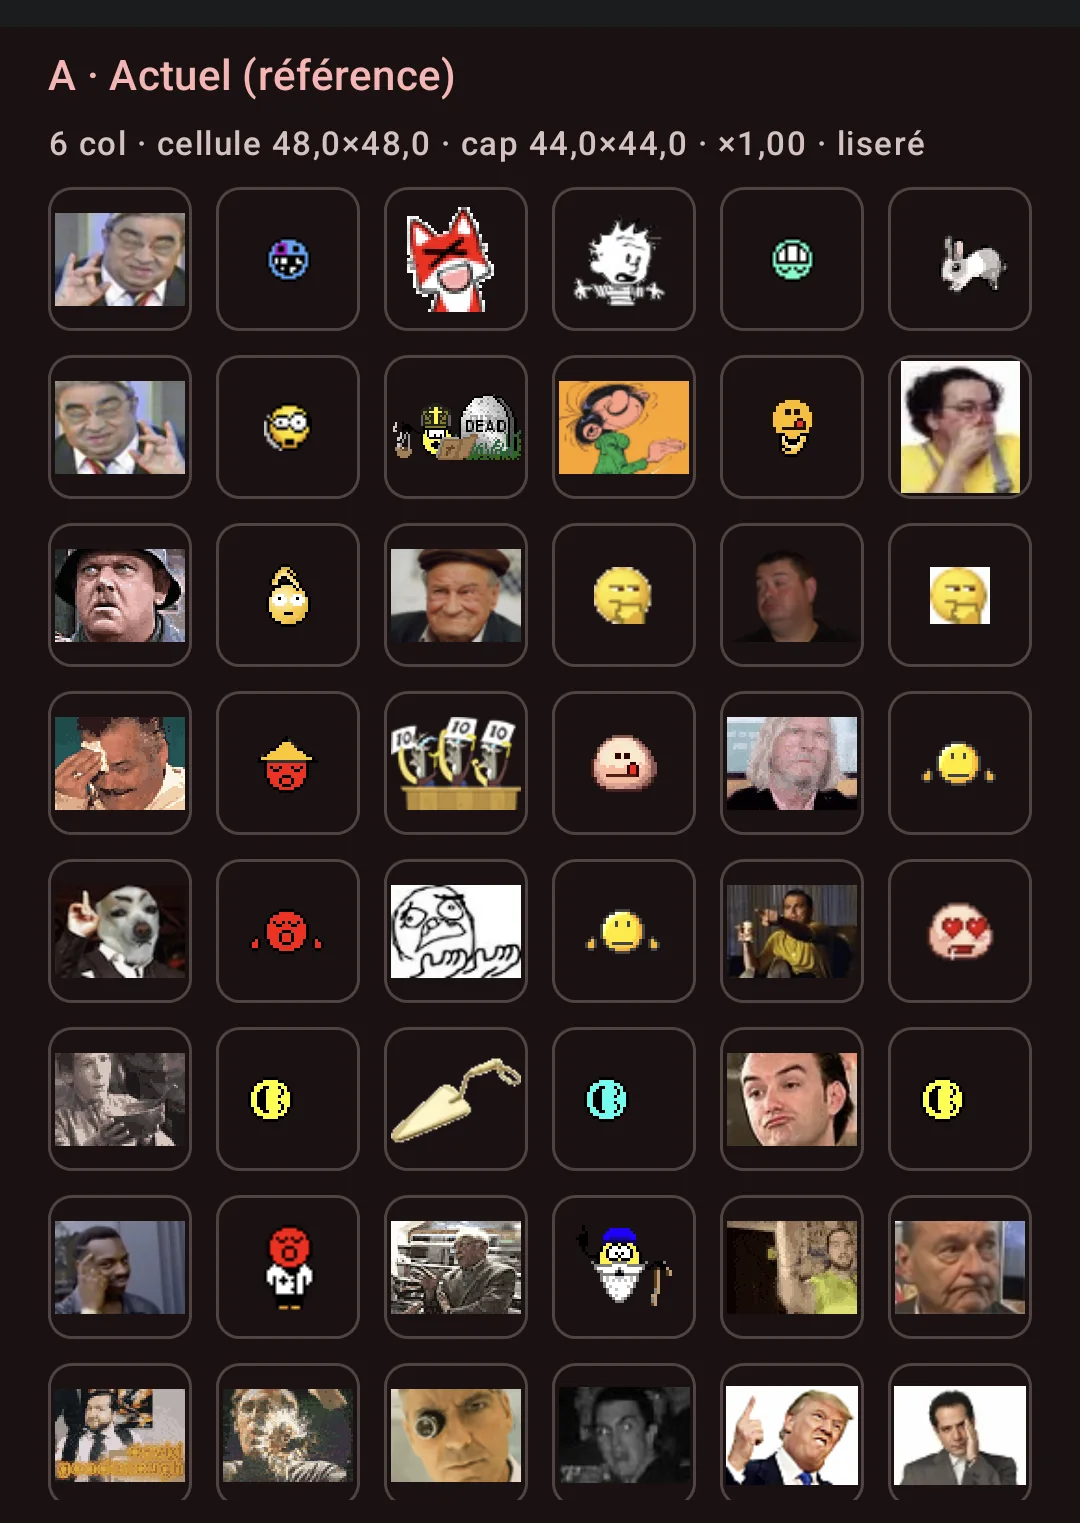
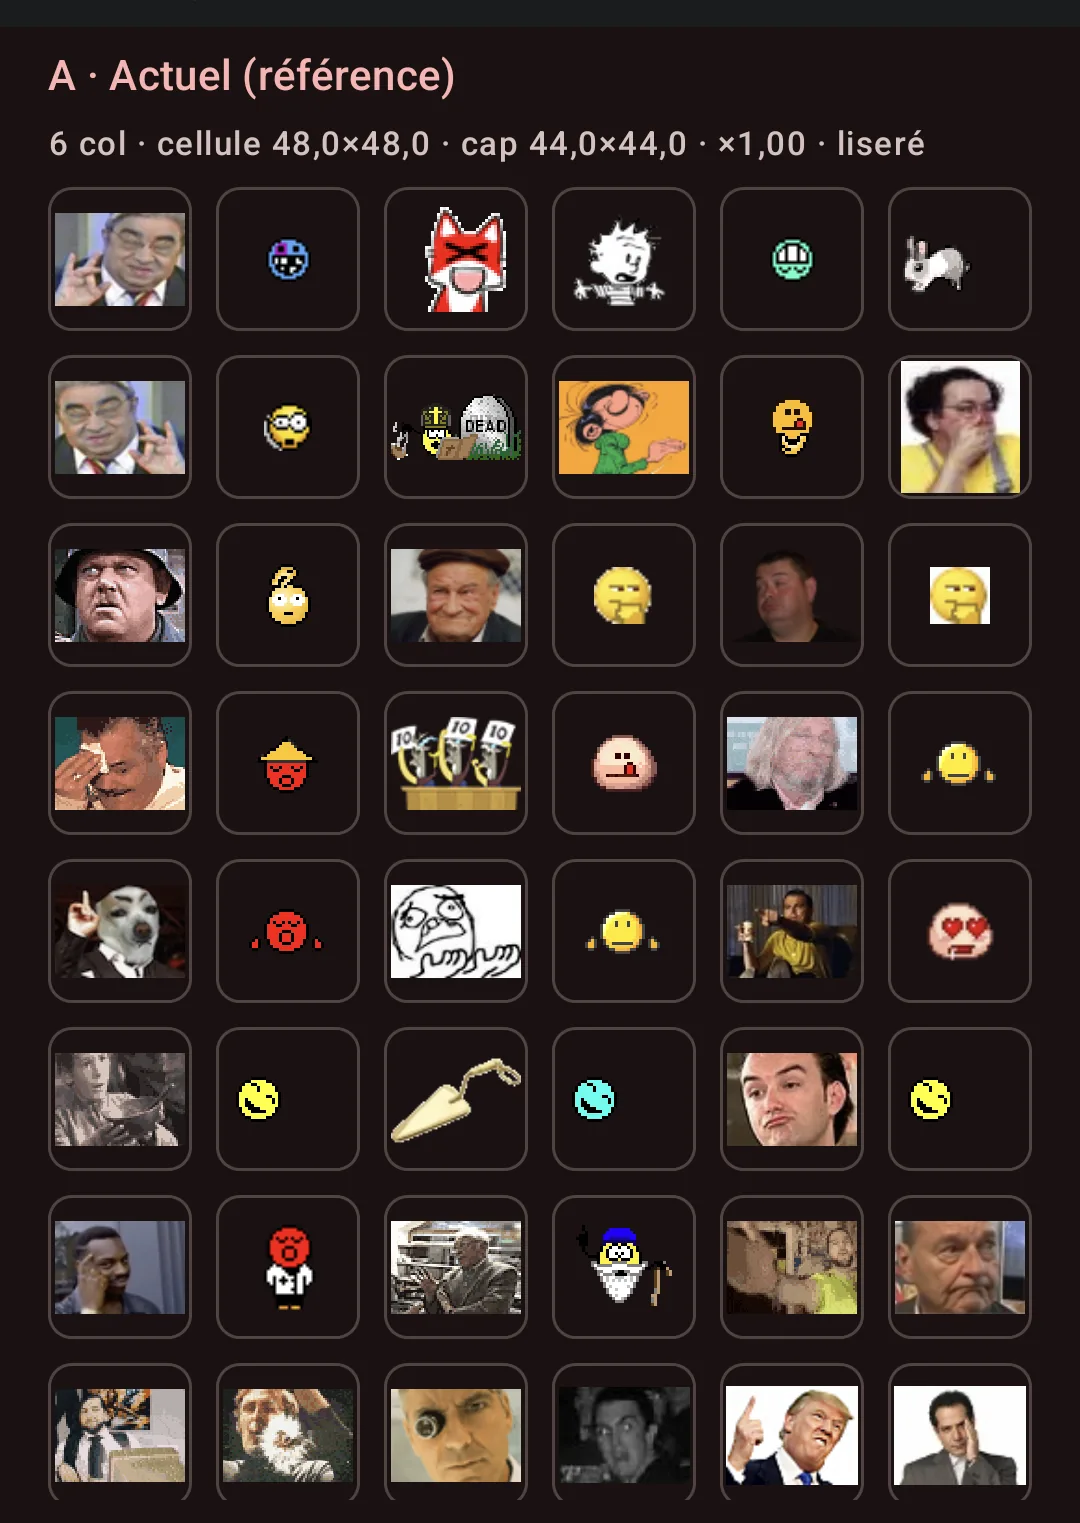
fix: spike #989 — solveur de colonnes en pixels (bloquant du gate Codex)
Le solveur résolvait en dp avec un epsilon censé absorber les arrondis, alors que
GridCells.Adaptive résout en pixels ENTIERS. Contre-exemple trouvé au gate : à une
largeur réelle de 327,5 dp sous densité 2.0, la version dp répondait 6 colonnes de
47,92 dp — sous le minimum tactile Material — là où Adaptive répond 5. L'epsilon
était précisément ce qui faisait basculer le cas limite.

Le solveur travaille désormais en px comme l'API. Corollaire : cellWidth >=
minCellWidth devient vrai par construction, le minimum tactile horizontal n'a plus
besoin de garde séparée. Deux tests pinnent le cas (contre-exemple exact + balayage
7 densités × 115 largeurs).

Conséquence sur les chiffres publiés : la cellule compacte vaut 65,3 dp (division
entière en px) et non 65,6, le perso dominant rend à 61×44 et non 62×44. 1 dp,
invisible à l'œil — les 21 captures et tous les chiffres de la page ont été refaits
sur le code corrigé plutôt que laissés en l'état.

Claude-Session: https://claude.ai/code/session_01Q3ERCYSiJk36qk45CK9LYS

diff --git a/smileys-picker-989/index.html b/smileys-picker-989/index.html
@@ -90,15 +90,15 @@
       <tr><td><b>A</b> Actuel</td><td>pad 16 · gap 8 · min 48</td><td class="num">6</td><td class="num">48,0×48,0</td><td class="num">44,0</td><td class="num">44×31</td><td class="num">39×15</td><td class="num">48</td></tr>
       <tr><td><b>B</b> 5 col</td><td>pad 16 · gap 8 · min 56</td><td class="num">5</td><td class="num">59,2×59,2</td><td class="num">55,2</td><td class="num">55×39 <span class="tag up">+25 %</span></td><td class="num">39×15</td><td class="num">35 <span class="tag down">−13</span></td></tr>
       <tr><td><b>C</b> Marges</td><td>pad 8 · gap 4 · min 48</td><td class="num">6</td><td class="num">54,0×54,0</td><td class="num">50,0</td><td class="num">50×36 <span class="tag up">+14 %</span></td><td class="num">39×15</td><td class="num">48 <span class="tag up">=</span></td></tr>
-      <tr><td><b>D</b> Les deux</td><td>pad 8 · gap 4 · min 56</td><td class="num">5</td><td class="num">65,6×65,6</td><td class="num">61,6</td><td class="num">62×44 <span class="tag up">+40 %</span></td><td class="num">39×15</td><td class="num">30 <span class="tag down">−18</span></td></tr>
-      <tr class="win"><td><b>E</b> + paysage</td><td>D · ratio 7:5</td><td class="num">5</td><td class="num">65,6×48,0</td><td class="num">61,6×44,0</td><td class="num">62×44 <span class="tag up">+40 %</span></td><td class="num">39×15</td><td class="num">45 <span class="tag down">−3</span></td></tr>
-      <tr class="win"><td><b>F</b> + upscale</td><td>E · plafond ×1,5</td><td class="num">5</td><td class="num">65,6×48,0</td><td class="num">61,6×44,0</td><td class="num">62×44 <span class="tag up">+40 %</span></td><td class="num">59×23 <span class="tag up">+51 %</span></td><td class="num">45</td></tr>
+      <tr><td><b>D</b> Les deux</td><td>pad 8 · gap 4 · min 56</td><td class="num">5</td><td class="num">65,3×65,3</td><td class="num">61,3</td><td class="num">61×44 <span class="tag up">+40 %</span></td><td class="num">39×15</td><td class="num">30 <span class="tag down">−18</span></td></tr>
+      <tr class="win"><td><b>E</b> + paysage</td><td>D · ratio 7:5</td><td class="num">5</td><td class="num">65,3×48,0</td><td class="num">61,3×44,0</td><td class="num">61×44 <span class="tag up">+40 %</span></td><td class="num">39×15</td><td class="num">45 <span class="tag down">−3</span></td></tr>
+      <tr class="win"><td><b>F</b> + upscale</td><td>E · plafond ×1,5</td><td class="num">5</td><td class="num">65,3×48,0</td><td class="num">61,3×44,0</td><td class="num">61×44 <span class="tag up">+40 %</span></td><td class="num">59×23 <span class="tag up">+51 %</span></td><td class="num">45</td></tr>
       <tr><td><b>G</b> Borne haute</td><td>pad 8 · gap 4 · min 72</td><td class="num">4</td><td class="num">83,0×59,3</td><td class="num">79,0×55,3</td><td class="num">70×50 <span class="tag up">natif</span></td><td class="num">39×15</td><td class="num">28 <span class="tag down">−20</span></td></tr>
     </tbody>
   </table>
   </div>
 
-  <p><b>Ce que le tableau dit.</b> Passer à 5 colonnes (B) coûte 13 vignettes pour +25 %. Rogner les marges seules (C) est le seul gain <em>gratuit</em> (+14 %, densité intacte) mais reste modeste. <b>E est le meilleur rapport</b> : même +40 % que D, mais 45 vignettes visibles au lieu de 30, parce qu'abandonner la cellule carrée récupère le vertical que le corpus paysage n'utilisait pas. À la cellule 65,6×48, le 70×50 sature <em>les deux</em> axes en même temps — plus rien n'est perdu. <b>G prouve que le natif plein ne vaut pas le prix</b> : +13 % de plus que E contre 17 vignettes en moins.</p>
+  <p><b>Ce que le tableau dit.</b> Passer à 5 colonnes (B) coûte 13 vignettes pour +25 %. Rogner les marges seules (C) est le seul gain <em>gratuit</em> (+14 %, densité intacte) mais reste modeste. <b>E est le meilleur rapport</b> : même +40 % que D, mais 45 vignettes visibles au lieu de 30, parce qu'abandonner la cellule carrée récupère le vertical que le corpus paysage n'utilisait pas. À la cellule 65,3×48, le 70×50 sature <em>les deux</em> axes en même temps — plus rien n'est perdu. <b>G prouve que le natif plein ne vaut pas le prix</b> : +13 % de plus que E contre 17 vignettes en moins.</p>
 
   <h2>Comparaison directe</h2>
   <p>Les trois premières rangées de A, E, F et G, à l'échelle réelle du device. C'est ici que le flou de l'upscale de F se juge.</p>
@@ -134,7 +134,7 @@
   </div>
   <div class="grid2">
     <figure><img src="shots/A_debug.webp" alt="A en mode debug"><figcaption><b>A · debug</b> — on voit le vide : les boîtes 44×31 dans des cellules 48×48, et les mini-sprites au milieu de rien.</figcaption></figure>
-    <figure><img src="shots/E_debug.webp" alt="E en mode debug"><figcaption><b>E · debug</b> — les boîtes 62×44 remplissent la cellule 65,6×48 sur les deux axes.</figcaption></figure>
+    <figure><img src="shots/E_debug.webp" alt="E en mode debug"><figcaption><b>E · debug</b> — les boîtes 61×44 remplissent la cellule 65,3×48 sur les deux axes.</figcaption></figure>
   </div>
   <p>L'intérêt au-delà de l'esthétique : une vignette peut paraître petite parce que son fichier source est petit, parce que le cap a mordu, <em>ou</em> parce que la sonde de mesure n'a pas encore atterri. Le liseré coloré distingue les trois — sans ça, on risque de juger la politique sur une capture à cache froid.</p>
 
@@ -143,7 +143,7 @@
   <p>Les quatre points que le cadrage désignait comme risques, photographiés plutôt que supposés.</p>
 
   <h3>fontScale 1,5 et 2,0</h3>
-  <p><b>Géométrie strictement inchangée</b> — 5 colonnes, cellule 65,6×48,0, cap 61,6×44,0 aux deux échelles : seule la légende grossit. Aucune régression de layout, la grille du picker est en <code>dp</code>.</p>
+  <p><b>Géométrie strictement inchangée</b> — 5 colonnes, cellule 65,3×48,0, cap 61,3×44,0 aux deux échelles : seule la légende grossit. Aucune régression de layout, la grille du picker est en <code>dp</code>.</p>
   <p>Mais ça révèle un écart de fond, qui complète le constat de #989 : <b>le picker est en <code>dp</code>, les smileys d'un post sont en <code>sp</code></b>. À gros <code>fontScale</code>, un perso est donc <em>plus grand dans le post que dans le sélecteur qui a servi à le choisir</em> — le désaccord picker/renderer déjà noté sur les builtins (20 dp contre 16 sp) a un second visage.</p>
   <figure><img src="shots/stress_fontscale.webp" alt="Preset E à fontScale 1,5 puis 2,0"><figcaption>Preset E à <b>fontScale 1,5</b> (haut) et <b>2,0</b> (bas) : mêmes vignettes, légende plus grosse.</figcaption></figure>
 
@@ -174,14 +174,18 @@
     <li><b>Corpus réel, chargé par le vrai loader Coil de l'app</b>, avec la vraie sonde de mesure intrinsèque partagée avec le rendu des posts.</li>
     <li><b>Cache de mesure chaud.</b> Les presets sont pilotés par <code>onNewIntent</code> sans redémarrer le process — un <code>am start -S</code> aurait vidé le cache en mémoire et photographié le repli à froid au lieu de la politique.</li>
     <li><b>La politique des posts n'est pas touchée.</b> <code>intrinsicSmileyDisplaySize</code> reste intacte (§9 du contrat images, « intouchable », alignée par #871). Le picker a sa propre policy : il sert à <em>reconnaître</em> une vignette, un post à <em>reproduire</em> l'échelle de HFR. Les deux ne partagent que la taille native mesurée.</li>
-    <li><b>Minimum tactile préservé.</b> La cellule paysage est plancherée à 48 dp de haut : 65,6/1,4 = 46,9 dp serait sous le minimum Material, un test le pinne.</li>
+    <li><b>Minimum tactile préservé.</b> La cellule paysage est plancherée à 48 dp de haut : 65,3/1,4 = 46,7 dp serait sous le minimum Material, un test le pinne.</li>
     <li><b>Responsive.</b> Le nombre de colonnes est <em>résolu</em> comme <code>Adaptive</code> le fait, jamais un <code>Fixed(5)</code> en dur — qui donnerait 5 cellules étirées sur toute la largeur en paysage ou sur tablette. En paysage (744 dp utiles), le preset E donne 12 colonnes.</li>
   </ul>
+
+  <h3>Un bloquant corrigé après relecture</h3>
+  <p>Le gate de code a trouvé un défaut réel dans mon solveur de colonnes : je résolvais en <code>dp</code> avec un epsilon « de prudence », alors que <code>GridCells.Adaptive</code> résout en <b>pixels entiers</b>. À une largeur réelle de 327,5 dp sous densité 2.0, ma version répondait 6 colonnes de <b>47,92 dp — sous le minimum tactile</b> — là où <code>Adaptive</code> répond 5. L'epsilon censé absorber les arrondis était précisément ce qui faisait basculer le cas limite.</p>
+  <p>Le solveur travaille désormais en pixels comme l'API, sans epsilon. Effet secondaire bénéfique : <code>cellWidth ≥ minCellWidth</code> devient vrai <em>par construction</em>, donc le minimum tactile horizontal n'a plus besoin de garde séparée. Effet secondaire visible : la cellule compacte vaut 65,3 dp et non 65,6 (division entière en px), et le perso dominant rend à 61×44 au lieu de 62×44 — <b>1 dp, invisible à l'œil, mais les captures et les chiffres de cette page ont été refaits</b> pour correspondre au code corrigé. Deux tests pinnent le cas : le contre-exemple exact, et un balayage de 7 densités × 115 largeurs vérifiant que la cellule ne descend jamais sous le minimum.</p>
 
   <p><b>Ce qui n'est pas encore couvert</b> (à faire si un preset est retenu) : <code>fontScale</code> 1,5 et 2,0, le paysage et le split-screen photographiés, et l'onglet Standard (les builtins à 20 dp partagent cette grille — le piège de #816, où un réglage unique rendait les builtins gros et flous <em>et</em> les persos à l'étroit).</p>
 
   <footer>
-    Bench <code>SmileyPickerSpikeActivity</code> (debug-only, <code>app/src/debug</code>) · Galaxy S10e SM-G970F, 1080×2280 @ 480 dpi (360×760 dp), thème sombre · dev@9fafe209 · captures du 03/08/2026 · Cadrage validé par GPT-5 Codex (dépôt en lecture seule)
+    Bench <code>SmileyPickerSpikeActivity</code> (debug-only, <code>app/src/debug</code>) · Galaxy S10e SM-G970F, 1080×2280 @ 480 dpi (360×760 dp), thème sombre · dev@9fafe209 · captures du 03/08/2026 · Cadrage et gate de code par GPT-5 Codex (dépôt en lecture seule) — un bloquant trouvé et corrigé
   </footer>
 </div>
 </body>
